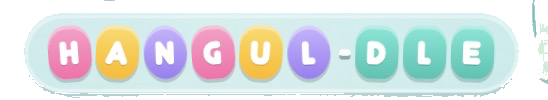
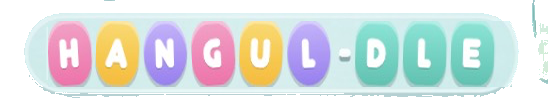
Enlarge HANGUL-DLE letter tiles to fill ~80% of the title pill height.

diff --git a/www/js/match-race-app.js b/www/js/match-race-app.js
@@ -144,7 +144,7 @@
         <header class="race-header">
           <span class="race-header-spacer" aria-hidden="true"></span>
           <h1 class="race-header-title race-header-title--logo">
-            <img class="race-header-title-img" src="assets/hangul-dle-title.png" alt="${escapeHtml(rt('title'))}" draggable="false">
+            <img class="race-header-title-img" src="assets/hangul-dle-title.png?v=20260823h" alt="${escapeHtml(rt('title'))}" draggable="false">
           </h1>
           <a class="race-settings-link" href="settings.html" aria-label="${escapeHtml(global.I18n?.t('nav.settings') || 'Settings')}">⚙</a>
         </header>

diff --git a/www/js/match-turn-app.js b/www/js/match-turn-app.js
@@ -212,7 +212,7 @@
         <header class="race-header">
           <span class="race-header-spacer" aria-hidden="true"></span>
           <h1 class="race-header-title race-header-title--logo">
-            <img class="race-header-title-img" src="assets/hangul-dle-title.png" alt="${escapeHtml(rt('title'))}" draggable="false">
+            <img class="race-header-title-img" src="assets/hangul-dle-title.png?v=20260823h" alt="${escapeHtml(rt('title'))}" draggable="false">
           </h1>
           <a class="race-settings-link" href="settings.html" aria-label="${escapeHtml(global.I18n?.t('nav.settings') || 'Settings')}">⚙</a>
         </header>

diff --git a/www/js/match-turn-bot.js b/www/js/match-turn-bot.js
@@ -1241,7 +1241,7 @@
         <header class="race-header">
           <span class="race-header-spacer" aria-hidden="true"></span>
           <h1 class="race-header-title race-header-title--logo">
-            <img class="race-header-title-img" src="assets/hangul-dle-title.png" alt="${escapeHtml(rt('title'))}" draggable="false">
+            <img class="race-header-title-img" src="assets/hangul-dle-title.png?v=20260823h" alt="${escapeHtml(rt('title'))}" draggable="false">
           </h1>
           <a class="race-settings-link" href="settings.html" aria-label="Settings">⚙</a>
         </header>

diff --git a/www/js/korean-match.js b/www/js/korean-match.js
@@ -951,7 +951,7 @@
       const chromeTitleHtml = this.tutorialMode
         ? `<h1 class="match-chrome-title">${escapeHtml(chromeTitle)}</h1>`
         : `<h1 class="match-chrome-title match-chrome-title--logo">
-            <img class="match-chrome-title-img" src="assets/hangul-dle-title.png" alt="${escapeHtml(chromeTitle)}" draggable="false">
+            <img class="match-chrome-title-img" src="assets/hangul-dle-title.png?v=20260823h" alt="${escapeHtml(chromeTitle)}" draggable="false">
           </h1>`;
 
       const headerHtml = this.versus
